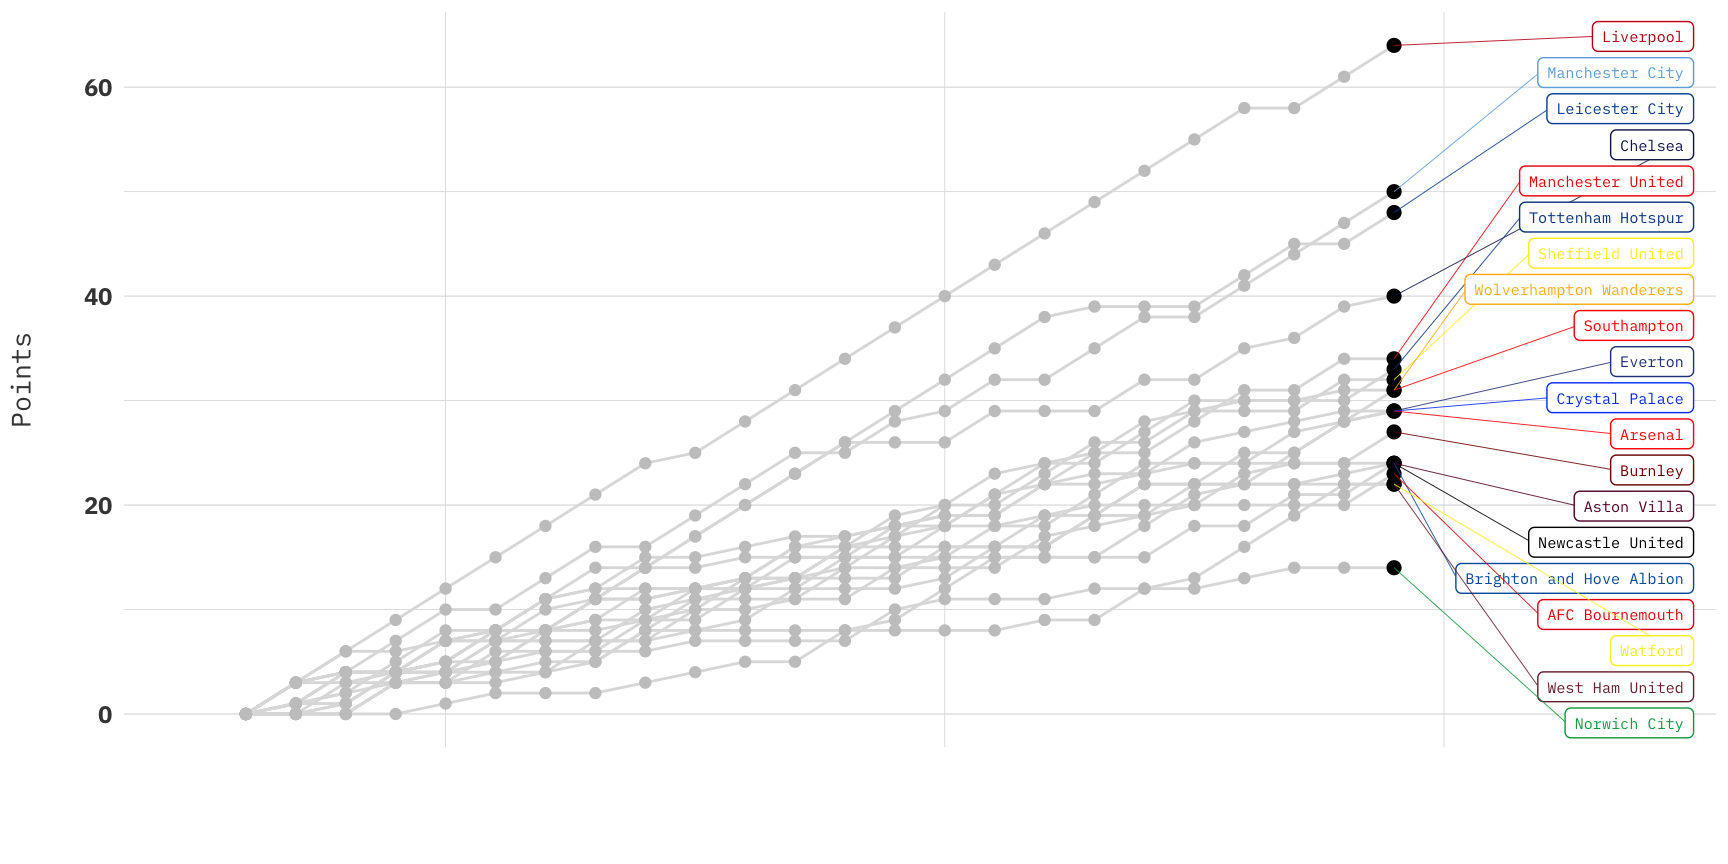
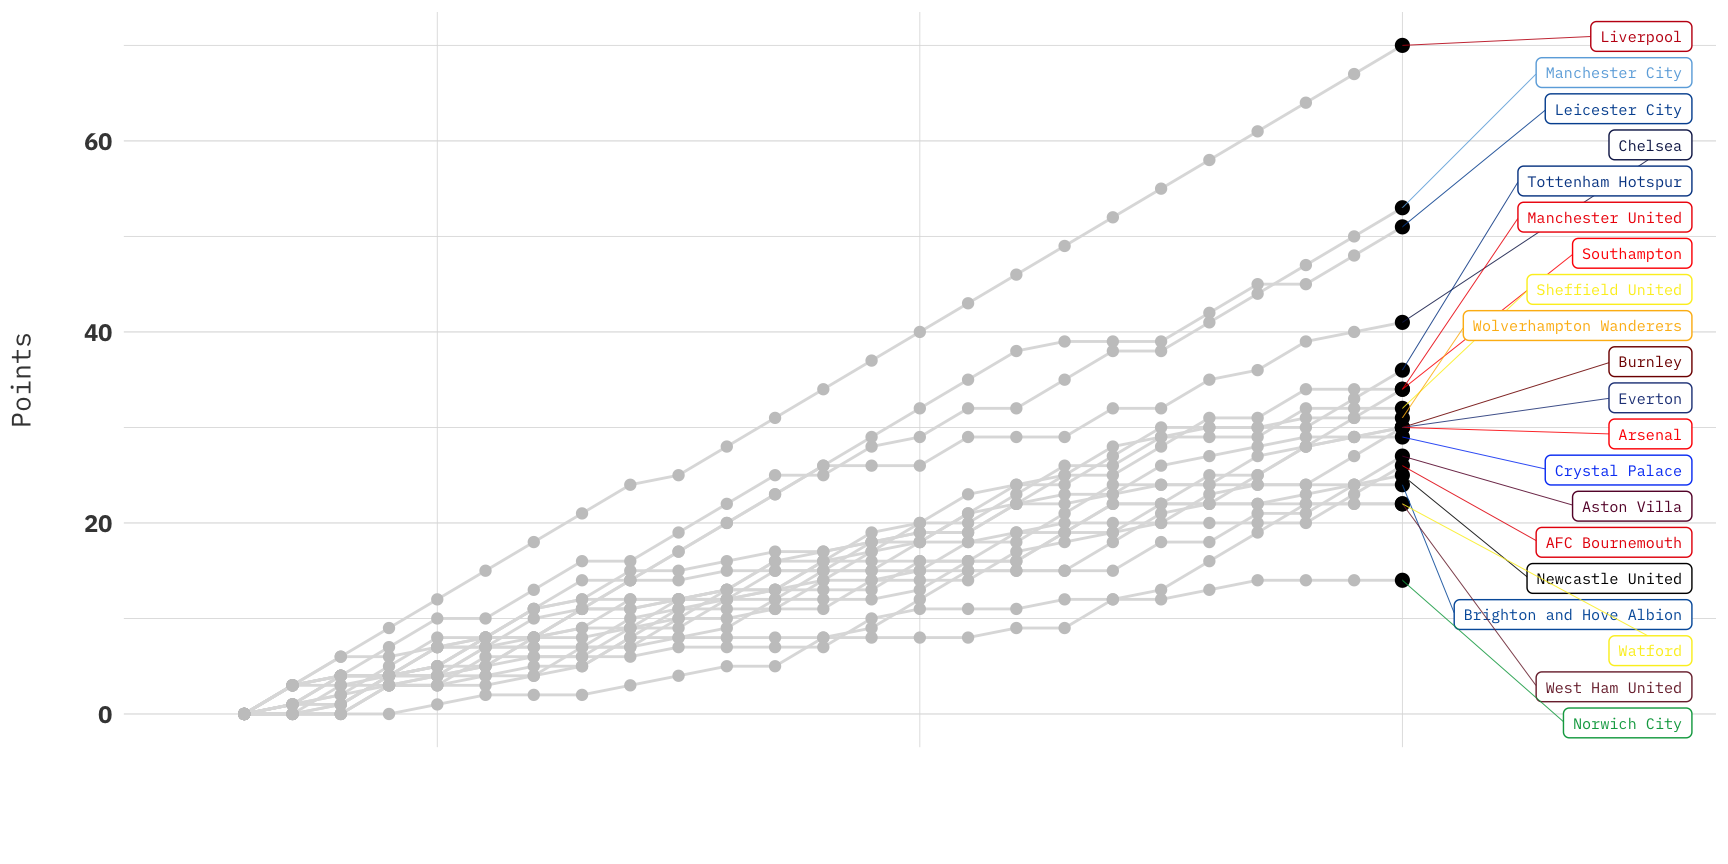
new update for EPL

diff --git a/content/EPL.html b/content/EPL.html
@@ -26,7 +26,7 @@ Below are the standings of the Premier League 19-20 season. <strong>Pts</strong>
 
 </th>
 <th style="text-align:left;">
-
+Team
 </th>
 <th style="text-align:center;">
 Pts
@@ -65,7 +65,7 @@ Goal.Diff
 
 </th>
 <th style="text-align:center;">
-
+⇩
 </th>
 </tr>
 </thead>
@@ -81,14 +81,14 @@ Liverpool
 </td>
 <td style="text-align:center;">
 <div style="background-color: #2a2a2a; color: white; font-weight: bold; border-radius: 5px">
-67
+70
 </div>
 </td>
 <td style="text-align:center;">
-<span style="font-weight: 100; color: #8b8b8b">23</span>
+<span style="font-weight: 100; color: #8b8b8b">24</span>
 </td>
 <td style="text-align:center;">
-<span style="font-weight: 100; color: #8b8b8b">22</span>
+<span style="font-weight: 100; color: #8b8b8b">23</span>
 </td>
 <td style="text-align:center;">
 <span style="font-weight: 100; color: #8b8b8b">1 </span>
@@ -97,13 +97,13 @@ Liverpool
 <span style="font-weight: 100; color: #8b8b8b">0 </span>
 </td>
 <td style="text-align:center;">
-<span style="font-weight: 100; color: #8b8b8b">54</span>
+<span style="font-weight: 100; color: #8b8b8b">56</span>
 </td>
 <td style="text-align:center;">
 <span style="font-weight: 100; color: #8b8b8b">15</span>
 </td>
 <td style="text-align:center;">
-<span style="font-weight: 700; color: #2c7e55">+39</span>
+<span style="font-weight: 700; color: #2c7e55">+41</span>
 </td>
 <td style="text-align:left;">
 <span style="display: float; color: white; font-weight: light; font-size: 10px; font-family: IBM Plex Mono; padding: 7px 10px 7px 10px; background-color: #2c7e55">W</span>
@@ -154,7 +154,7 @@ Manchester City
 <span style="font-weight: 100; color: #8b8b8b">27</span>
 </td>
 <td style="text-align:center;">
-<span style="font-weight: 700; color: #2e7d54">+38</span>
+<span style="font-weight: 700; color: #327b54">+38</span>
 </td>
 <td style="text-align:left;">
 <span style="display: float; color: white; font-weight: light; font-size: 10px; font-family: IBM Plex Mono; padding: 7px 10px 7px 10px; background-color: #2c7e55">W</span>
@@ -205,7 +205,7 @@ Leicester City
 <span style="font-weight: 100; color: #8b8b8b">24</span>
 </td>
 <td style="text-align:center;">
-<span style="font-weight: 700; color: #447351">+28</span>
+<span style="font-weight: 700; color: #487150">+28</span>
 </td>
 <td style="text-align:left;">
 <span style="display: float; color: white; font-weight: light; font-size: 10px; font-family: IBM Plex Mono; padding: 7px 10px 7px 10px; background-color: #2c7e55">W</span>
@@ -256,7 +256,7 @@ Chelsea
 <span style="font-weight: 100; color: #8b8b8b">32</span>
 </td>
 <td style="text-align:center;">
-<span style="font-weight: 700; color: #6f604a">+9 </span>
+<span style="font-weight: 700; color: #715f4a">+9 </span>
 </td>
 <td style="text-align:left;">
 <span style="display: float; color: white; font-weight: light; font-size: 10px; font-family: IBM Plex Mono; padding: 7px 10px 7px 10px; background-color: #2c7e55">W</span>
@@ -307,7 +307,7 @@ Manchester United
 <span style="font-weight: 100; color: #8b8b8b">29</span>
 </td>
 <td style="text-align:center;">
-<span style="font-weight: 700; color: #735e4a">+7 </span>
+<span style="font-weight: 700; color: #755d49">+7 </span>
 </td>
 <td style="text-align:left;">
 <span style="display: float; color: white; font-weight: light; font-size: 10px; font-family: IBM Plex Mono; padding: 7px 10px 7px 10px; background-color: #2c7e55">W</span>
@@ -358,7 +358,7 @@ Tottenham Hotspur
 <span style="font-weight: 100; color: #8b8b8b">32</span>
 </td>
 <td style="text-align:center;">
-<span style="font-weight: 700; color: #755d49">+6 </span>
+<span style="font-weight: 700; color: #785c49">+6 </span>
 </td>
 <td style="text-align:left;">
 <span style="display: float; color: white; font-weight: light; font-size: 10px; font-family: IBM Plex Mono; padding: 7px 10px 7px 10px; background-color: #ffc966">D</span>
@@ -409,7 +409,7 @@ Wolverhampton Wanderers
 <span style="font-weight: 100; color: #8b8b8b">32</span>
 </td>
 <td style="text-align:center;">
-<span style="font-weight: 700; color: #7c5a48">+3 </span>
+<span style="font-weight: 700; color: #7e5948">+3 </span>
 </td>
 <td style="text-align:left;">
 <span style="display: float; color: white; font-weight: light; font-size: 10px; font-family: IBM Plex Mono; padding: 7px 10px 7px 10px; background-color: #B74040">L</span>
@@ -460,7 +460,7 @@ Sheffield United
 <span style="font-weight: 100; color: #8b8b8b">23</span>
 </td>
 <td style="text-align:center;">
-<span style="font-weight: 700; color: #7e5948">+2 </span>
+<span style="font-weight: 700; color: #805848">+2 </span>
 </td>
 <td style="text-align:left;">
 <span style="display: float; color: white; font-weight: light; font-size: 10px; font-family: IBM Plex Mono; padding: 7px 10px 7px 10px; background-color: #B74040">L</span>
@@ -511,7 +511,7 @@ Southampton
 <span style="font-weight: 100; color: #8b8b8b">42</span>
 </td>
 <td style="text-align:center;">
-<span style="font-weight: 700; color: #9c4c44">-11</span>
+<span style="font-weight: 700; color: #9c4b43">-11</span>
 </td>
 <td style="text-align:left;">
 <span style="display: float; color: white; font-weight: light; font-size: 10px; font-family: IBM Plex Mono; padding: 7px 10px 7px 10px; background-color: #ffc966">D</span>
@@ -562,7 +562,7 @@ Arsenal
 <span style="font-weight: 100; color: #8b8b8b">34</span>
 </td>
 <td style="text-align:center;">
-<span style="font-weight: 700; color: #875547">-2 </span>
+<span style="font-weight: 700; color: #895446">-2 </span>
 </td>
 <td style="text-align:left;">
 <span style="display: float; color: white; font-weight: light; font-size: 10px; font-family: IBM Plex Mono; padding: 7px 10px 7px 10px; background-color: #B74040">L</span>
@@ -613,7 +613,7 @@ Crystal Palace
 <span style="font-weight: 100; color: #8b8b8b">28</span>
 </td>
 <td style="text-align:center;">
-<span style="font-weight: 700; color: #905145">-6 </span>
+<span style="font-weight: 700; color: #925045">-6 </span>
 </td>
 <td style="text-align:left;">
 <span style="display: float; color: white; font-weight: light; font-size: 10px; font-family: IBM Plex Mono; padding: 7px 10px 7px 10px; background-color: #ffc966">D</span>
@@ -664,7 +664,7 @@ Everton
 <span style="font-weight: 100; color: #8b8b8b">35</span>
 </td>
 <td style="text-align:center;">
-<span style="font-weight: 700; color: #935045">-7 </span>
+<span style="font-weight: 700; color: #944f45">-7 </span>
 </td>
 <td style="text-align:left;">
 <span style="display: float; color: white; font-weight: light; font-size: 10px; font-family: IBM Plex Mono; padding: 7px 10px 7px 10px; background-color: #2c7e55">W</span>
@@ -715,7 +715,7 @@ Burnley
 <span style="font-weight: 100; color: #8b8b8b">38</span>
 </td>
 <td style="text-align:center;">
-<span style="font-weight: 700; color: #994d44">-10</span>
+<span style="font-weight: 700; color: #9a4c44">-10</span>
 </td>
 <td style="text-align:left;">
 <span style="display: float; color: white; font-weight: light; font-size: 10px; font-family: IBM Plex Mono; padding: 7px 10px 7px 10px; background-color: #B74040">L</span>
@@ -766,7 +766,7 @@ Newcastle United
 <span style="font-weight: 100; color: #8b8b8b">36</span>
 </td>
 <td style="text-align:center;">
-<span style="font-weight: 700; color: #9e4b43">-12</span>
+<span style="font-weight: 700; color: #9f4a43">-12</span>
 </td>
 <td style="text-align:left;">
 <span style="display: float; color: white; font-weight: light; font-size: 10px; font-family: IBM Plex Mono; padding: 7px 10px 7px 10px; background-color: #B74040">L</span>
@@ -817,7 +817,7 @@ Brighton &amp; Hove Albion
 <span style="font-weight: 100; color: #8b8b8b">34</span>
 </td>
 <td style="text-align:center;">
-<span style="font-weight: 700; color: #935045">-7 </span>
+<span style="font-weight: 700; color: #944f45">-7 </span>
 </td>
 <td style="text-align:left;">
 <span style="display: float; color: white; font-weight: light; font-size: 10px; font-family: IBM Plex Mono; padding: 7px 10px 7px 10px; background-color: #2c7e55">W</span>
@@ -868,7 +868,7 @@ Aston Villa
 <span style="font-weight: 100; color: #8b8b8b">45</span>
 </td>
 <td style="text-align:center;">
-<span style="font-weight: 700; color: #a24943">-14</span>
+<span style="font-weight: 700; color: #a34842">-14</span>
 </td>
 <td style="text-align:left;">
 <span style="display: float; color: white; font-weight: light; font-size: 10px; font-family: IBM Plex Mono; padding: 7px 10px 7px 10px; background-color: #B74040">L</span>
@@ -901,7 +901,7 @@ West Ham United
 </div>
 </td>
 <td style="text-align:center;">
-<span style="font-weight: 100; color: #8b8b8b">23</span>
+<span style="font-weight: 100; color: #8b8b8b">24</span>
 </td>
 <td style="text-align:center;">
 <span style="font-weight: 100; color: #8b8b8b">6 </span>
@@ -910,21 +910,18 @@ West Ham United
 <span style="font-weight: 100; color: #8b8b8b">5 </span>
 </td>
 <td style="text-align:center;">
-<span style="font-weight: 100; color: #8b8b8b">12</span>
+<span style="font-weight: 100; color: #8b8b8b">13</span>
 </td>
 <td style="text-align:center;">
 <span style="font-weight: 100; color: #8b8b8b">27</span>
 </td>
 <td style="text-align:center;">
-<span style="font-weight: 100; color: #8b8b8b">38</span>
+<span style="font-weight: 100; color: #8b8b8b">40</span>
 </td>
 <td style="text-align:center;">
-<span style="font-weight: 700; color: #9c4c44">-11</span>
+<span style="font-weight: 700; color: #a14943">-13</span>
 </td>
 <td style="text-align:left;">
-<span style="display: float; color: white; font-weight: light; font-size: 10px; font-family: IBM Plex Mono; padding: 7px 10px 7px 10px; background-color: #B74040">L</span>
-</td>
-<td style="text-align:center;">
 <span style="display: float; color: white; font-weight: light; font-size: 10px; font-family: IBM Plex Mono; padding: 7px 10px 7px 10px; background-color: #2c7e55">W</span>
 </td>
 <td style="text-align:center;">
@@ -932,6 +929,9 @@ West Ham United
 </td>
 <td style="text-align:center;">
 <span style="display: float; color: white; font-weight: light; font-size: 10px; font-family: IBM Plex Mono; padding: 7px 10px 7px 10px; background-color: #ffc966">D</span>
+</td>
+<td style="text-align:center;">
+<span style="display: float; color: white; font-weight: light; font-size: 10px; font-family: IBM Plex Mono; padding: 7px 10px 7px 10px; background-color: #B74040">L</span>
 </td>
 <td style="text-align:center;">
 <span style="display: float; color: white; font-weight: light; font-size: 10px; font-family: IBM Plex Mono; padding: 7px 10px 7px 10px; background-color: #B74040">L</span>
@@ -970,7 +970,7 @@ AFC Bournemouth
 <span style="font-weight: 100; color: #8b8b8b">37</span>
 </td>
 <td style="text-align:center;">
-<span style="font-weight: 700; color: #a24943">-14</span>
+<span style="font-weight: 700; color: #a34842">-14</span>
 </td>
 <td style="text-align:left;">
 <span style="display: float; color: white; font-weight: light; font-size: 10px; font-family: IBM Plex Mono; padding: 7px 10px 7px 10px; background-color: #B74040">L</span>
@@ -1021,7 +1021,7 @@ Watford
 <span style="font-weight: 100; color: #8b8b8b">36</span>
 </td>
 <td style="text-align:center;">
-<span style="font-weight: 700; color: #a54842">-15</span>
+<span style="font-weight: 700; color: #a54742">-15</span>
 </td>
 <td style="text-align:left;">
 <span style="display: float; color: white; font-weight: light; font-size: 10px; font-family: IBM Plex Mono; padding: 7px 10px 7px 10px; background-color: #2c7e55">W</span>
